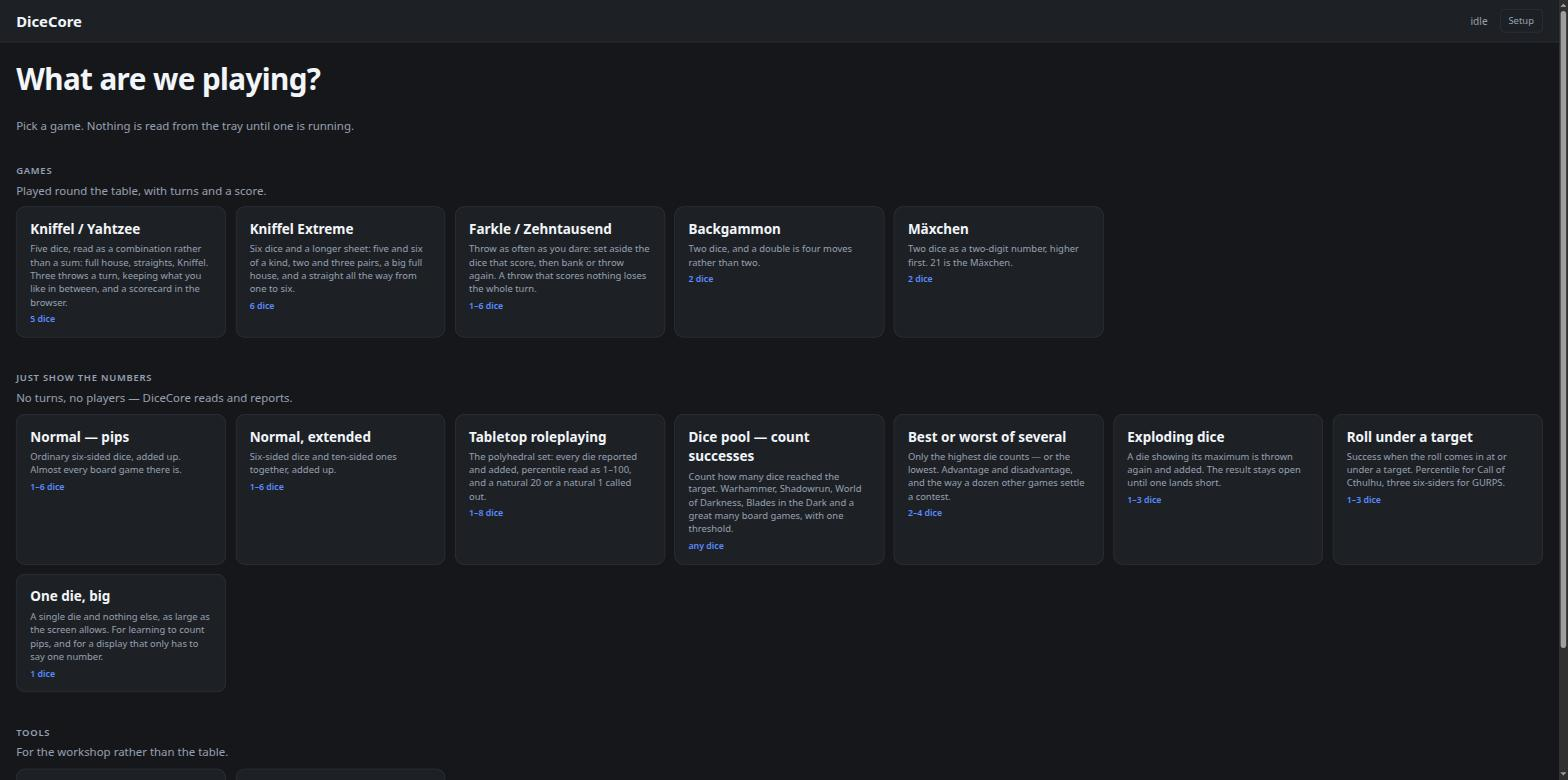
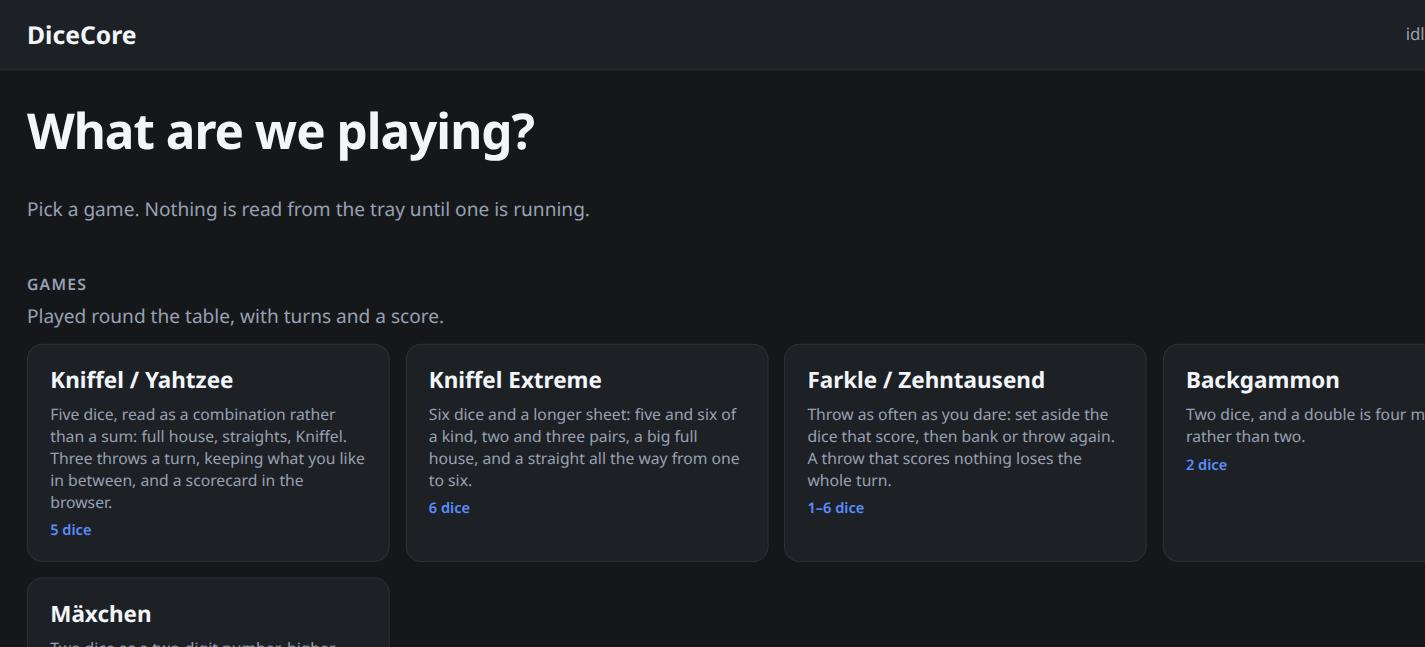
v0.12.1 — screenshots that show what the project actually is
Four of the five in the README were still v0.1 interfaces that no longer exist —
a Roll tab without a mode picker, a Training page without the explanation of what
a set even is. Replaced with the game screen mid-Kniffel (three players, their
colours, a large straight), the lobby, the Training page as it now reads, the
Avrae panel, and the workshop's Roll tab. The Avrae one is new: it is worth
seeing that the panel opens by answering the question rather than burying it.

The status paragraph described the first commit. It now describes fifteen game
modes, three boards, turns and chips, the fair-play watch and both front ends —
and still leads with the part that has not changed and matters most: nothing has
run on a real tower yet, and a trained model needs real dice in front of a real
camera.

diff --git a/src/dicecore/server/app.py b/src/dicecore/server/app.py
@@ -93,7 +93,7 @@ def create_app(settings: Settings | None = None) -> Any:
     buttons = ButtonPanel(loaded.panel.signals, on_chip, on_next)
     state["buttons"] = buttons
 
-    app = FastAPI(title="DiceCore", version="0.12.0",
+    app = FastAPI(title="DiceCore", version="0.12.1",
                   description="Reads real dice with a camera.")
     app.state.reader = reader
     app.state.training = training

diff --git a/src/dicecore/__init__.py b/src/dicecore/__init__.py
@@ -5,6 +5,6 @@ A camera over the landing area of a dice tower, a Raspberry Pi, and an API that 
 was rolled. See docs/CONCEPT.md for what this is meant to become.
 """
 
-__version__ = "0.12.0"
+__version__ = "0.12.1"
 
 __all__ = ["__version__"]

diff --git a/README.de.md b/README.de.md
@@ -7,15 +7,24 @@ Landefläche eines Würfelturms und macht aus dem, was dort liegt, Daten: wie vi
 welcher Art, mit welchem Wert, und was das zusammen ergibt — als Zahl auf dem Bildschirm,
 als JSON-API und als Live-Stream, den ein Bot oder ein Spiel abonnieren kann.
 
-> **Status: früh. Nichts davon lief bisher an einem echten Turm.** Die Kette funktioniert
-> Ende zu Ende auf synthetischen und simulierten Bildern — Aufnahme, Ruhe-Erkennung,
-> Augenzählen, die Label-Schleife, die API und die Weboberfläche sind da und getestet. Es
-> fehlt ein trainiertes Modell (dafür braucht es echte Würfel vor einer echten Kamera) und
-> jeder Hardware-Pfad, der sich nur auf einem Pi überprüfen lässt.
+> **Status: es spielt, aber nichts davon lief bisher an einem echten Turm.** Von der Kamera
+> bis zum Spielblock funktioniert alles Ende zu Ende auf simulierten Bildern: Aufnahme,
+> Ruhe-Erkennung, Augenzählen, fünfzehn Spielmodi, drei Spielbretter, Züge und Chips, die
+> Fair-Play-Wache, die Label-Schleife, das Panel, die API und beide Weboberflächen — 310
+> Tests, von denen keiner Hardware braucht.
+>
+> Es fehlt die Hälfte, die nur ein echter Turm liefern kann: **ein trainiertes Modell** (das
+> braucht echte Würfel vor einer echten Kamera und ist das, was einen W20 überhaupt lesbar
+> macht) und **jeder Hardware-Pfad** — Kameramodule, das kleine Display, Lampen und Taster
+> sind geschrieben und ungeprüft, bis sie an einem Pi hängen.
+>
 > [docs/CONCEPT.md](docs/CONCEPT.md) ist die Referenz für das Ziel,
 > [docs/HARDWARE.md](docs/HARDWARE.md) sagt, was zu kaufen ist und wohin es gehört.
 
-![Der Reiter „Roll“: die Summe, die Notation, pro Würfel ein Chip mit Konfidenz, und darunter das aufgenommene Bild mit dem erkannten Würfel als beschriftetem Kasten](docs/screenshots/roll.jpg)
+![Der Spielbildschirm während eines Kniffel-Zugs: „Large Straight“ groß und grün über den fünf als Augen gezeichneten Würfeln, der Wurfzähler bei drei von drei mit zwei Chips, und rechts ein Spielblock für drei Spieler mit je einer Farbe neben dem Namen](docs/screenshots/play.jpg)
+
+*Der Spielbildschirm — die Seite für den Fernseher. Spiel in der Lobby aussuchen, einen
+kurzen Assistenten durchtippen, werfen.*
 
 ## Was heute funktioniert
 
@@ -64,16 +73,23 @@ als JSON-API und als Live-Stream, den ein Bot oder ein Spiel abonnieren kann.
 - **Alles davon ohne Hardware.** `dicecore synth` zeichnet Würfel, die Quelle `folder` spielt
   sie ab, und alles oben Genannte läuft damit auf dem Laptop.
 
-![Die Lobby: jeder Modus als Kachel, gruppiert in Spiele, reine Anzeigen und Werkzeuge](docs/screenshots/lobby.jpg)
+![Die Lobby: jeder Modus als Kachel, gruppiert in Spiele für den Tisch, reine Anzeigen und Werkzeuge](docs/screenshots/lobby.jpg)
 
-![Der Spielbildschirm während eines Kniffel-Zugs: die Kombination groß, die fünf Würfel als Augen gezeichnet, der Wurfzähler mit Chips und rechts der Spielblock](docs/screenshots/play.jpg)
+*Die Lobby. Von der Landefläche wird nichts gelesen, bevor ein Spiel läuft.*
 
 ![Fünf Panels nebeneinander, von DiceCore selbst gerendert: ein ST7789 240x240 mit NICE ROLL über einer 20, ein ILI9341 320x240 mit HANDS OFF über 18, ein schmales ST7789 135x240 mit rotem VOID und zwei SSD1306-OLEDs](docs/screenshots/displays.png)
 
 *Derselbe Renderer bedient jedes Panel und die Browser-Vorschau — das Layout lässt sich
 festlegen, bevor irgendetwas gelötet ist.*
 
-![Der Reiter „Training“: gespeicherte Würfe, pro Würfel die Schätzung der Engine vorausgefüllt, bereit zum Korrigieren und Bestätigen](docs/screenshots/training.jpg)
+![Der Reiter „Training“: eine Erklärung, wie Sets und Modelle zusammenhängen, die Set-Auswahl mit Export- und Import-Knöpfen und ein zugeklappter Kasten mit drei durchgerechneten Beispielen](docs/screenshots/training.jpg)
+
+*Ihm die eigenen Würfel beibringen. Ein Set ist eine Ladung Würfel unter einem Licht; ein
+Modell wird aus einem oder mehreren Sets trainiert und kennt genau deren Flächen.*
+
+![Der Reiter „Roll“ der Einrichtungsseite: die aus den Würfeln gelesene Kombination, pro Würfel ein Chip mit Konfidenz, das Fair-Play-Urteil und darunter das Bild mit jedem erkannten Würfel als beschriftetem Kasten](docs/screenshots/roll.jpg)
+
+*Die Werkstattseite: was die Erkennung tatsächlich gesehen hat, mit ihrer Sicherheit je Würfel.*
 
 ## Fünf Minuten, ohne Hardware
 
@@ -159,6 +175,12 @@ print(pool["reading"]["headline"])               # 3 successes
 
 Ein Würfel, der nicht gelesen werden konnte, hat `"value": 0` und erscheint als `?`. Niemals
 mitrechnen.
+
+![Der Avrae-Bereich der Einrichtungsseite, der mit dem Satz „The honest answer first, because it is the question everybody asks“ beginnt und erklärt, dass Avrae nicht stillschweigend deine Zahl würfelt](docs/screenshots/avrae.jpg)
+
+*Würfe hinausschicken. Avrae würfelt selbst und kann nicht dazu gebracht werden, deine
+Würfel zu benutzen — was hier passiert, ist deine Zahl dorthin zu legen, wo ein Alias sie
+erreicht.*
 
 ## Dokumentation
 

diff --git a/README.md b/README.md
@@ -7,14 +7,23 @@ tower and turns what lands there into data: how many dice, of which kind, showin
 value, and what they add up to — as a number on a screen, as a JSON API, and as a live
 event stream a bot or a game can subscribe to.
 
-> **Status: early. Nothing has run on a real tower yet.** The pipeline works end to end on
-> synthetic and simulated frames — capture, settling, pip counting, the label loop, the API
-> and the web UI are all in and tested. What is missing is a trained model (that needs real
-> dice in front of a real camera) and every hardware path, which is only verifiable on a Pi.
+> **Status: it plays, but nothing has run on a real tower yet.** Everything from the camera
+> to the scorecard works end to end on simulated frames: capture, settling, pip counting,
+> fifteen game modes, three boards, turns and chips, the fair-play watch, the label loop,
+> the panel, the API and both web front ends — 310 tests, none of which need hardware.
+>
+> What is missing is the half only a real tower can supply: **a trained model** (which needs
+> real dice in front of a real camera, and is what makes a d20 readable at all) and **every
+> hardware path** — the camera modules, the little screen, the lamps and buttons are written
+> and unverified until they are on a Pi.
+>
 > [docs/CONCEPT.md](docs/CONCEPT.md) is the reference for where this is going;
 > [docs/HARDWARE.md](docs/HARDWARE.md) is what to buy and where to put it.
 
-![The Roll tab: the total, the notation, a confidence chip per die, and the captured frame with the recognised die boxed and labelled](docs/screenshots/roll.jpg)
+![The game screen during a Kniffel turn: "Large Straight" in large green letters over the five dice drawn as pips, the throw counter showing three of three with two chips left, and a three-player scorecard down the right-hand side with a colour beside each name](docs/screenshots/play.jpg)
+
+*The game screen — the page you put on the television. Pick a game from the lobby, tap
+through a short wizard, throw.*
 
 ## What works today
 
@@ -65,11 +74,18 @@ event stream a bot or a game can subscribe to.
 *The same renderer drives every panel and the browser preview, so the layout can be worked
 out before anything is soldered.*
 
-![The lobby: every mode as a tile, grouped into games, plain readers and workshop tools](docs/screenshots/lobby.jpg)
+![The lobby: every mode as a tile, grouped into games you play round a table, readers that only report numbers, and workshop tools](docs/screenshots/lobby.jpg)
 
-![The game screen during a Kniffel turn: the combination in large letters, the five dice drawn as pips, the throw counter with chips, and the scorecard down the side](docs/screenshots/play.jpg)
+*The lobby. Nothing is read from the tray until a game is running.*
 
-![The Training tab: a set of stored rolls, each with the engine's guess pre-filled per die, ready to be corrected and confirmed](docs/screenshots/training.jpg)
+![The Training tab: an explanation of how sets and models fit together, the set picker with export and import buttons, and a collapsed panel of three worked examples](docs/screenshots/training.jpg)
+
+*Teaching it your dice. A set is one lot of dice under one light; a model is trained from
+one or more sets and knows exactly the faces that were in them.*
+
+![The Roll tab of the setup page: the combination read from the dice, a confidence chip per die, the fair-play verdict, and the captured frame with every die boxed and labelled](docs/screenshots/roll.jpg)
+
+*The workshop side: what the engine actually saw, with its confidence per die.*
 
 ## Five minutes, no hardware
 
@@ -152,6 +168,11 @@ print(pool["reading"]["headline"])               # 3 successes
 ```
 
 A die that could not be read has `"value": 0` and prints as `?`. Never add it up.
+
+![The Avrae panel in the setup page, opening with the sentence "The honest answer first, because it is the question everybody asks" and explaining that Avrae will not silently roll your number](docs/screenshots/avrae.jpg)
+
+*Sending rolls out. Avrae rolls its own dice and cannot be made to use yours — what this
+does instead is put your number where an alias can reach it.*
 
 ## Documentation
 

diff --git a/CHANGELOG.md b/CHANGELOG.md
@@ -2,6 +2,17 @@
 
 Notable changes, newest first. Dates are the day the work landed.
 
+## 0.12.1 (2026-09-02)
+
+### Changed
+- Fresh screenshots throughout: the game screen mid-Kniffel with three players and their
+  colours, the lobby, the Training page with the sets-and-models explanation, the Avrae
+  panel, and the workshop's Roll tab. Four of the five were still showing v0.1 interfaces
+  that no longer exist.
+- The status paragraph in both READMEs describes what the project is now rather than what
+  it was at the first commit — and keeps saying the part that matters: nothing has run on a
+  real tower yet.
+
 ## 0.12.0 (2026-09-02)
 
 ### Added
